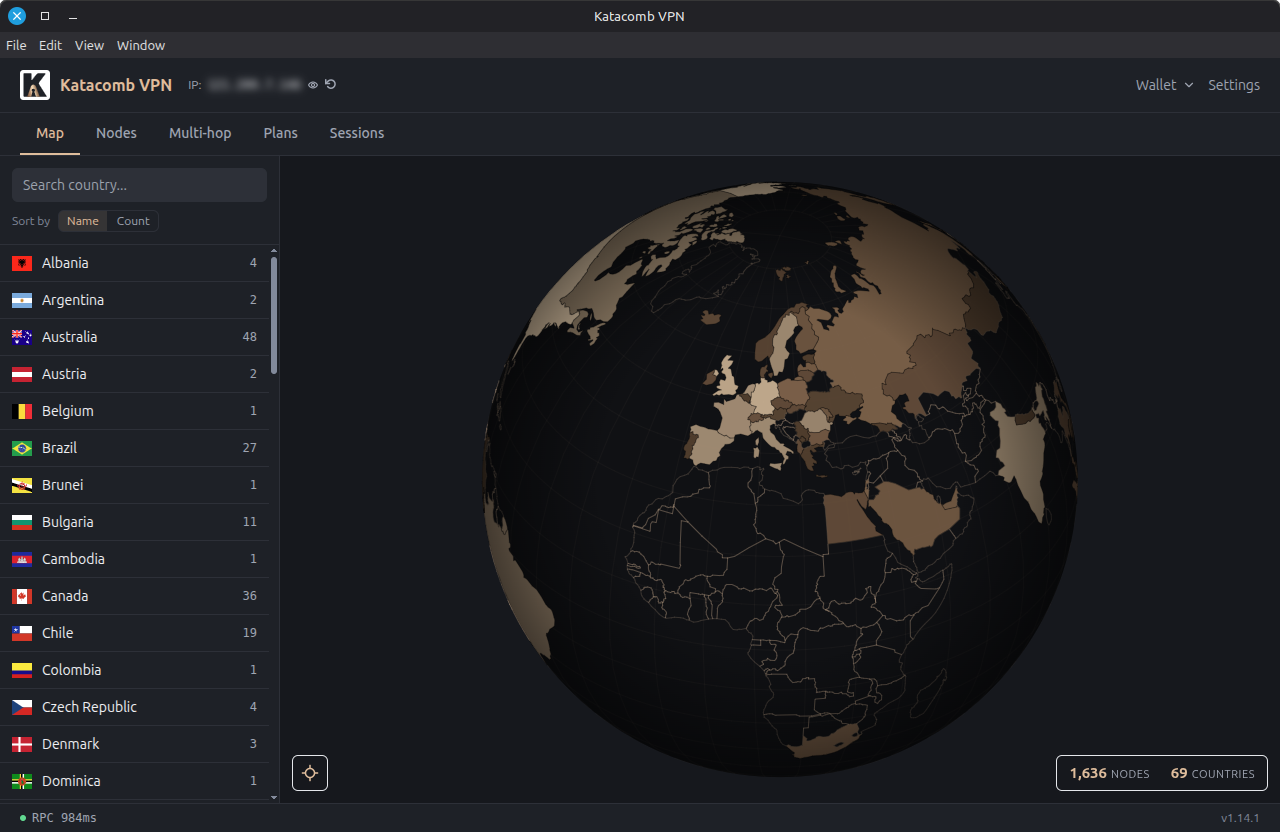
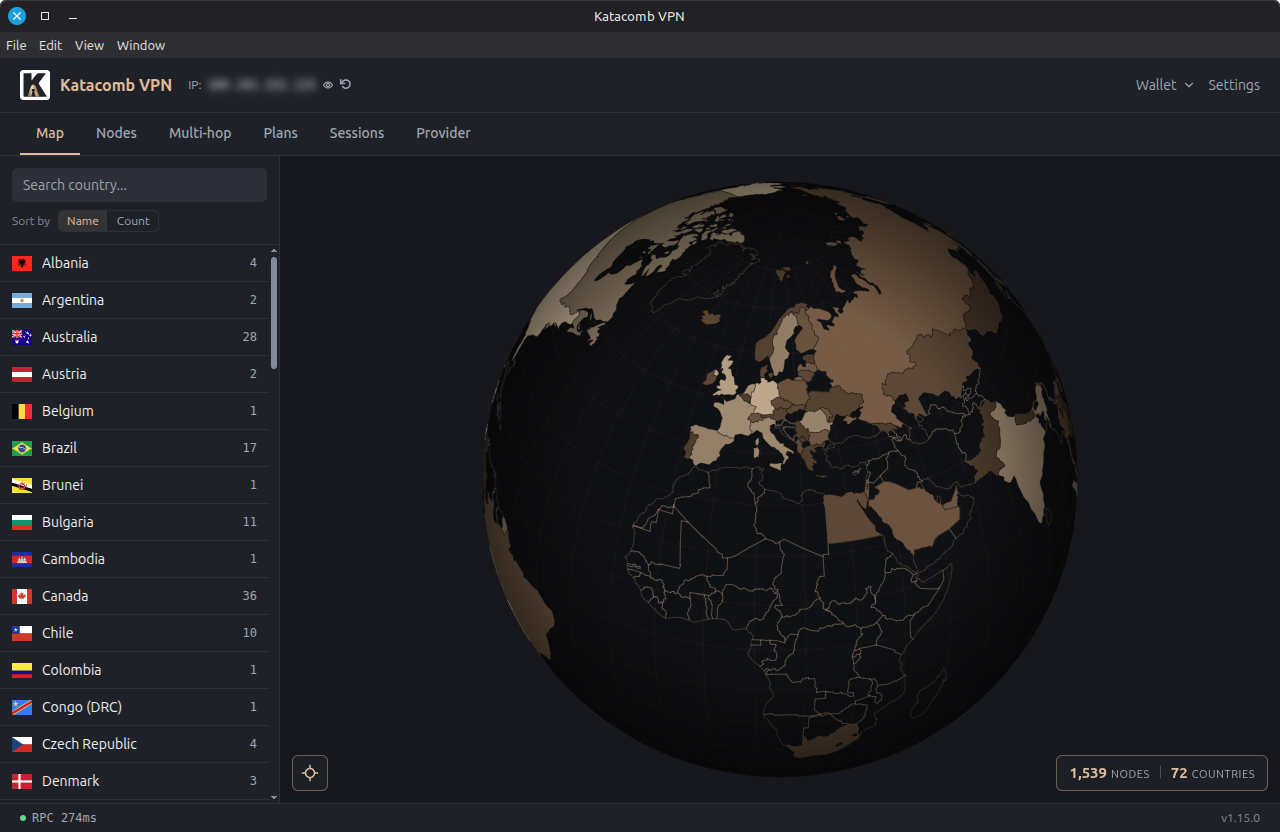
Bump Katacomb VPN fallback to v1.15.0 and update screenshots

diff --git a/plugins/katacomb-release/index.js b/plugins/katacomb-release/index.js
@@ -4,21 +4,21 @@ const RELEASES = `https://github.com/${REPO}/releases`;
 // Used when the GitHub API can't be reached, so an offline or rate-limited
 // build still produces a working page instead of failing.
 const FALLBACK = {
-  version: '1.14.1',
+  version: '1.15.0',
   stale: true,
-  releaseUrl: `${RELEASES}/tag/v1.14.1`,
+  releaseUrl: `${RELEASES}/tag/v1.15.0`,
   deb: {
-    name: 'katacomb-vpn_1.14.1_amd64.deb',
-    url: `${RELEASES}/download/v1.14.1/katacomb-vpn_1.14.1_amd64.deb`,
+    name: 'katacomb-vpn_1.15.0_amd64.deb',
+    url: `${RELEASES}/download/v1.15.0/katacomb-vpn_1.15.0_amd64.deb`,
     size: '113 MB',
   },
   appimage: {
-    name: 'katacomb-vpn-1.14.1.AppImage',
-    url: `${RELEASES}/download/v1.14.1/katacomb-vpn-1.14.1.AppImage`,
+    name: 'katacomb-vpn-1.15.0.AppImage',
+    url: `${RELEASES}/download/v1.15.0/katacomb-vpn-1.15.0.AppImage`,
     size: '132 MB',
   },
-  checksums: `${RELEASES}/download/v1.14.1/SHA256SUMS`,
-  signature: `${RELEASES}/download/v1.14.1/SHA256SUMS.asc`,
+  checksums: `${RELEASES}/download/v1.15.0/SHA256SUMS`,
+  signature: `${RELEASES}/download/v1.15.0/SHA256SUMS.asc`,
 };
 
 const megabytes = (bytes) =>
